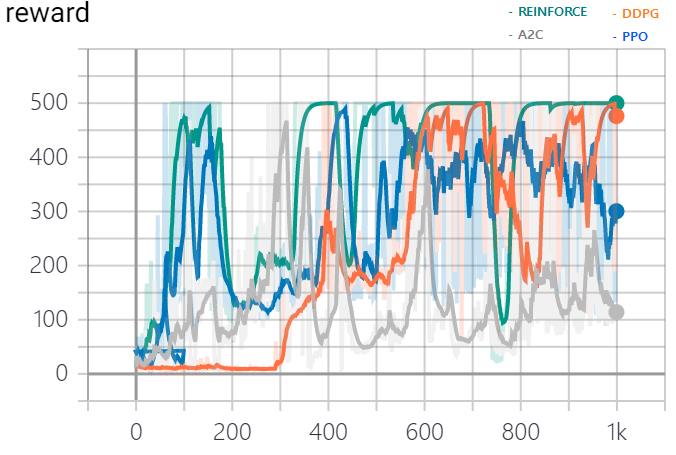
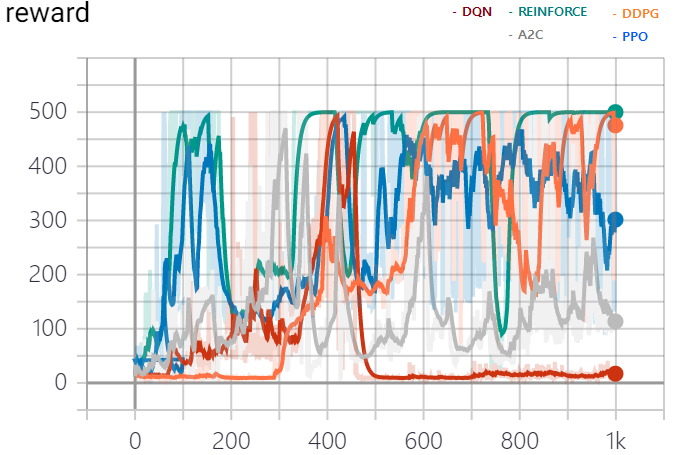
modified.

Changed region(s): [[0.0311, 0.0923, 0.9941, 0.9846], [0.6834, 0.0, 0.7456, 0.0615]]

diff --git a/_posts/lhh/2019-05-24-CartPole_RL_Comparison.md b/_posts/lhh/2019-05-24-CartPole_RL_Comparison.md
@@ -31,11 +31,10 @@ CartPole-v1 은 OpenAI의 gym 라이브러리를 통해 플레이할 수 있는 
 
 ## 구현한 강화학습 알고리즘
 
-구현한 강화학습 알고리즘은 <!-- DQN, --> REINFORCE, A2C, DDPG, PPO(DDPG와 PPO는 Continuous Action으로 구현하였고, DDPG(sigmoid)는 액션이 0.5보다 작으면 0 크면 1로 설정, PPO(linear)는 액션이 0보다 작으면 0 크면 1로 설정)이고, 해당 알고리즘에 대한 논문링크는 다음과 같습니다.
+구현한 강화학습 알고리즘은 DQN, REINFORCE, A2C, DDPG, PPO(DDPG와 PPO는 Continuous Action으로 구현하였고, DDPG(sigmoid)는 액션이 0.5보다 작으면 0 크면 1로 설정, PPO(linear)는 액션이 0보다 작으면 0 크면 1로 설정)이고, 해당 알고리즘에 대한 논문링크는 다음과 같습니다.
 
 
-<!-- DQN 논문 링크 : [https://arxiv.org/pdf/1312.5602](https://arxiv.org/pdf/1312.5602) -->
-
+- DQN 논문 링크 : https://arxiv.org/pdf/1312.5602
 - REINFORCE 논문 링크 : http://papers.nips.cc/paper/1713-policy-gradient-methods-for-reinforcement-learning-with-function-approximation.pdf
 - A2C 논문 링크 : https://arxiv.org/pdf/1602.01783
 - DDPG 논문 링크 : https://arxiv.org/pdf/1509.02971
@@ -46,10 +45,10 @@ CartPole-v1 은 OpenAI의 gym 라이브러리를 통해 플레이할 수 있는 
 
 알고리즘 별 공통 하이퍼 파라미터는 최대한 동일하게 유지하였고 세팅은 다음과 같습니다
 
-- 레이어 수 : 2
-- 히든 레이어 유닛 수 : 256
+- 레이어 수 : 2 ,(DQN : 3)
+- 히든 레이어 유닛 수 : 256, (DQN : 64)
 - 활성화 함수 : ReLU
-- 학습률 5e-3 (actor, critic 분리 모델은 각각 1e-3, 5e-3으로 설정)
+- 학습률 5e-3 (actor, critic 분리 모델은 각각 1e-3, 5e-3으로 설정, DQN : 2e-4)
 - 감가율 : 0.99
 - 시드(numpy, tensorflow, env) : 1
 
@@ -61,6 +60,7 @@ CartPole-v1 은 OpenAI의 gym 라이브러리를 통해 플레이할 수 있는 
 
 #### 학습 중 500점을 받은 에피소드 횟수는 다음과 같습니다.
 
+- DQN : 47
 - REINFORCE : 629
 - A2C : 60
 - DDPG : 264 
@@ -70,6 +70,7 @@ CartPole-v1 은 OpenAI의 gym 라이브러리를 통해 플레이할 수 있는 
 
 #### 학습 중 최초로 마지막 10 에피소드의 평균 점수가 490이상에 도달하는 스텝은 다음과 같습니다.
 
+- DQN : 428
 - REINFORCE : 116
 - A2C : 313
 - DDPG : 648

diff --git a/_posts/lhh/2020-06-05-ActiveLearning_Introduction.md b/_posts/lhh/2020-06-05-ActiveLearning_Introduction.md
@@ -29,6 +29,9 @@ Active Learning은 주로 데이터 셋의 양이 너무 방대하여 라벨링 
 
 액티브 러닝에는 크게 3가지 종류의 시나리오가 존재합니다. 지금부터 모델이 전문가에게 라벨링 요청을 날리는 시나리오들에 대해서 살펴보겠습니다.
 
+![3scenario]({{ "/images/lhh/active_learning/1-2.png" | prepend: site.baseurl }})
+
+
 ### Membership Query Synthesis
 
 ![MembershipQuerySynthesis]({{ "/images/lhh/active_learning/2.png" | prepend: site.baseurl }})
